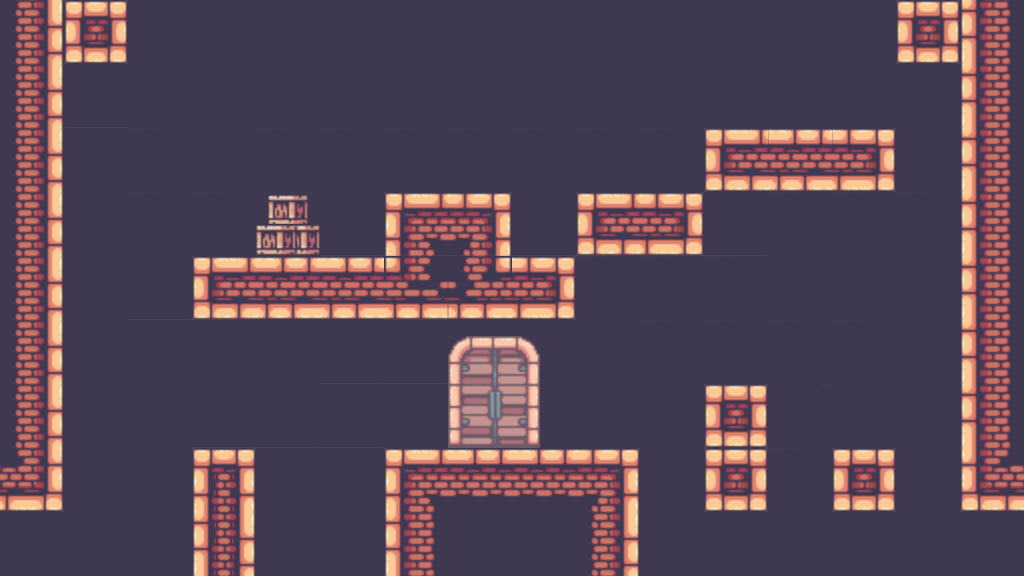
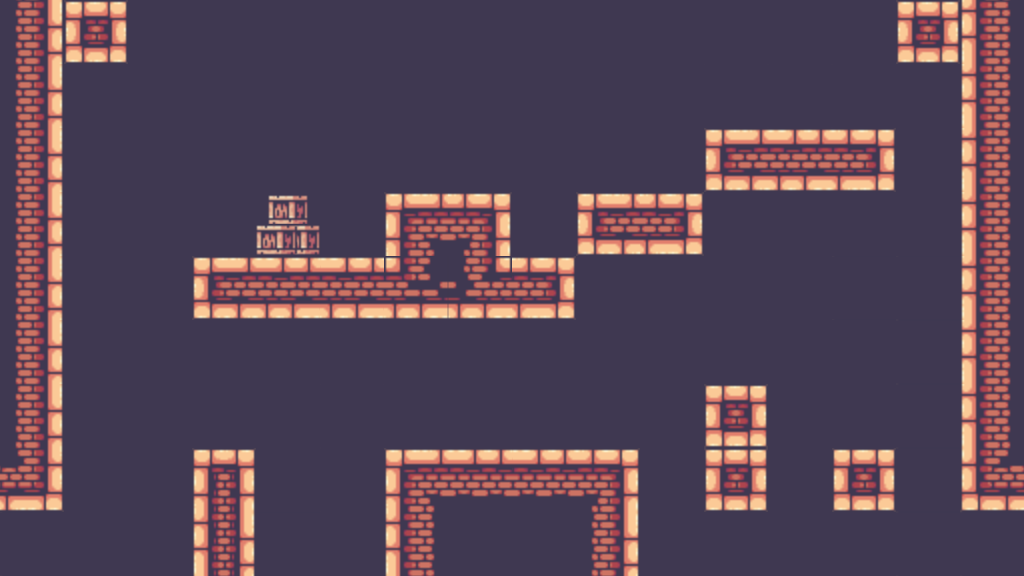
kingsAndPigs//backgroundLv5_fixed_decorationsGlitches/hitBox_accuratedToPlayer_Sprite/

Changed region(s): [[0.4375, 0.5625, 0.5312, 0.7812]]

diff --git a/js/classes/Player.js b/js/classes/Player.js
@@ -91,11 +91,17 @@ draw(){
     updateHitbox(){
         this.hitBox = {
             position:{
-                x: this.position.x + this.width * 0.40,//+58
-                y: this.position.y + this.height * 0.26,//+34
+                //x: this.position.x + this.width * 0.40,
+                //y: this.position.y + this.height * 0.26,
+                //x: this.position.x + this.width * 0.34,
+                //y: this.position.y + this.height * 0.26,
+                x: this.position.x +55,
+                y: this.position.y +32
+                //+58
+                //+34
             },
-            width: 42,
-            height: 58,    
+            width: 46,
+            height: 56,    
         }
     }
     checkForHorizontalCollisions (){
@@ -137,7 +143,7 @@ draw(){
                 && this.hitBox.position.y + this.hitBox.height >= collisionBlock.position.y
                 && this.hitBox.position.y <= collisionBlock.position.y + collisionBlock.height
             ) {
-                // horizontal x axis collision player and sprite
+                // vertical y axis collision player and sprite
                 if (this.velocity.y < -0) {
                     this.velocity.y = 0
                     const offset = this.hitBox.position.y - this.position.y 

diff --git a/js/classes/eventListeners.js b/js/classes/eventListeners.js
@@ -22,7 +22,11 @@ window.addEventListener('keydown', (e) =>{
                     }
                 
             }
-            if ( player.velocity.y === 0)   player.velocity.y = -14;
+            if ( 
+                player.velocity.y === 0 
+                //&& player.checkForVerticalCollisions()
+                ) 
+                player.velocity.y = -14;
         break;
         case 'a':
             //console.log('Preesed A')

diff --git a/index.js b/index.js
@@ -70,7 +70,7 @@ const player = new Player({
     },
 });
 
-let level = 1
+let level = 5
 let levels = {
     1: {
         init: () => {
@@ -225,8 +225,8 @@ let levels = {
     doors = [
         new Sprite({
             position: {
-                x:448,
-                y:448 - 112,
+                x:474,
+                y:338,
             },
             imageSrc: './img/doorOpen.png',
             frameRate: 5,
